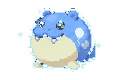
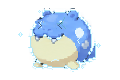
fix(spheal): polish shake expressions and stabilize idle and reaction recovery

Changed region(s): [[0.275, 0.25, 0.375, 0.375], [0.45, 0.275, 0.55, 0.375]]

diff --git a/test/spheal-specials.test.js b/test/spheal-specials.test.js
@@ -89,7 +89,7 @@ test('unchanged clap/watergun frame counts, frame timing and finite completion',
   }
 });
 
-async function rendererHarness() {
+async function rendererHarness({ movement = false } = {}) {
   let now = 0;
   const listeners = {};
   const pet = element();
@@ -104,7 +104,8 @@ async function rendererHarness() {
     document: { body: { dataset: {} }, getElementById: name => nodes[name] },
     window: {
       PetEngine: { STATES, chooseNextState: () => STATES.WALK,
-        chooseTarget: () => ({}), stepToward: () => { throw new Error('movement while locked'); } },
+        chooseTarget: () => ({}), stepToward: movement ? require('../src/pet-engine').stepToward
+          : () => { throw new Error('movement while locked'); } },
       addEventListener: (name, handler) => { listeners[name] = handler; },
       petAPI: { getWindow: async () => ({ x: 40, y: 50 }), setIgnoreMouse() {},
         setPosition: () => calls.push('move'), dragStart: () => calls.push('drag-start'),
@@ -170,4 +171,83 @@ test('expired click authorization does not launch icebeam', async () => {
   h.time(5001);
   h.type('icebeam');
   assert.equal(h.run('character.special.type'), 'clap');
+});
+
+test('completed click specials return directly to idle without a second generic reaction bounce', async () => {
+  for (const [code, duration] of [['', 1440], ['watergun', 2100], ['icebeam', 2950]]) {
+    const h = await rendererHarness();
+    h.click();
+    if (code) h.type(code);
+    h.time(duration);
+    h.run(`tick(${duration})`);
+    assert.equal(h.run('character.special'), null);
+    assert.equal(h.run('character.state'), STATES.IDLE);
+    assert.equal(h.nodes.spheal.className, 'spheal idle');
+    assert.ok(h.nodes.spheal.sprite.src.endsWith('spheal-base.png'));
+  }
+});
+
+test('ROLL startup, loop, ending and special-to-walk transition keep the original frame sequence', t => {
+  let now = 100;
+  t.mock.method(performance, 'now', () => now);
+  const node = element();
+  const character = new SphealCharacter(node, STATES);
+  character.setState(STATES.WALK);
+  for (const [elapsed, frame] of [[0, 1], [105, 2], [210, 3], [660, 8], [750, 3]]) {
+    now = 100 + elapsed;
+    character.render();
+    assert.ok(node.sprite.src.endsWith(`roll-${String(frame).padStart(2, '0')}.png`));
+  }
+  character.setState(STATES.IDLE);
+  const stopped = now;
+  for (let i = 0; i < 4; i++) {
+    now = stopped + i * 105;
+    character.render();
+    assert.ok(node.sprite.src.endsWith(`roll-${String(i + 9).padStart(2, '0')}.png`));
+  }
+  now = stopped + 420;
+  character.render();
+  assert.equal(node.sprite.src, character.baseSrc);
+  character.setState(STATES.WALK);
+  character.startSpecialAction('icebeam');
+  now += 2950;
+  character.render();
+  assert.equal(node.className, 'spheal walk');
+  assert.ok(node.sprite.src.endsWith('roll-01.png'));
+});
+
+test('renderer initializes, moves and turns, survives invalid/corrected input and resumes after a special', async () => {
+  const h = await rendererHarness({ movement: true });
+  assert.equal(h.run('character.state'), STATES.IDLE);
+  assert.ok(h.nodes.spheal.sprite.src.endsWith('spheal-base.png'));
+  h.time(20);
+  h.run('nextDecision = 100000; setState(PET_STATES.WALK); target = {x:position.x+30,y:position.y}; tick(20)');
+  assert.ok(h.calls.includes('move'));
+  assert.equal(h.run('character.facing'), 1);
+  h.time(40);
+  h.run('target = {x:position.x-30,y:position.y}; tick(40)');
+  assert.equal(h.run('character.facing'), -1);
+  h.click();
+  h.type('invalid');
+  assert.equal(h.run('character.special.type'), 'clap');
+  for (const key of 'icebeax') h.listeners.keydown({ key });
+  h.listeners.keydown({ key: 'Backspace' });
+  h.listeners.keydown({ key: 'm' });
+  h.listeners.keydown({ key: 'Enter' });
+  assert.equal(h.run('character.special.type'), 'icebeam');
+  const moves = h.calls.filter(call => call === 'move').length;
+  h.type('icebeam');
+  h.click();
+  h.type('watergun');
+  h.time(1400);
+  h.run('tick(1400)');
+  assert.equal(h.calls.filter(call => call === 'move').length, moves);
+  assert.equal(h.run('character.special.type'), 'icebeam');
+  h.time(2990);
+  h.run('tick(2990)');
+  assert.equal(h.run('character.special'), null);
+  h.time(3010);
+  h.run('setState(PET_STATES.WALK); nextDecision=100000; target={x:position.x-30,y:position.y}; tick(3010)');
+  assert.ok(h.calls.filter(call => call === 'move').length > moves);
+  assert.equal(h.run('character.facing'), -1);
 });

diff --git a/src/index.html b/src/index.html
@@ -25,7 +25,7 @@ body[data-character="neukgu"] .growlithe,body[data-character="royce"] .growlithe
 @keyframes g-exact-sleep{from{transform:translateY(1px)}to{transform:translateY(3px)}}
 @keyframes g-react-pop{from{transform:translateY(0)}to{transform:translateY(-2px)}}
 @keyframes g-exact-drag{from{transform:translateY(0)}to{transform:translateY(-1px)}}
-body[data-character="neukgu"] .spheal,body[data-character="growlithe"] .spheal,body[data-character="royce"] .spheal{display:none}.spheal{position:absolute;inset:0;transform-origin:50% 82%;display:block}.spheal-sprite{position:absolute;left:20px;top:6px;width:80px;height:80px;display:block;image-rendering:pixelated;image-rendering:crisp-edges;object-fit:contain;user-select:none;-webkit-user-drag:none;z-index:1}.spheal.special-clap .spheal-sprite{animation:spheal-clap-bounce 1.44s ease-in-out 1}.spheal.special-icebeam .spheal-sprite{left:0;width:120px;height:80px;animation:none;transform:none}.spheal.special-watergun .spheal-sprite{left:0;width:120px;height:80px;animation:spheal-water-recoil 2.1s ease-in-out 1}.spheal.walk .spheal-sprite{transform:translateY(-1px)}@keyframes spheal-clap-bounce{0%{transform:translateY(0)}45%{transform:translateY(-3px)}100%{transform:translateY(0)}}@keyframes spheal-water-recoil{0%,67%{transform:translate(0,0) rotate(0deg)}72%{transform:translate(-1px,1px) rotate(-1deg)}77%{transform:translate(2px,0) rotate(1.5deg)}82%{transform:translate(-2px,1px) rotate(-1.5deg)}87%{transform:translate(1px,0) rotate(.8deg)}93%,100%{transform:translate(0,0) rotate(0deg)}}
+body[data-character="neukgu"] .spheal,body[data-character="growlithe"] .spheal,body[data-character="royce"] .spheal{display:none}.spheal{position:absolute;inset:0;transform-origin:50% 82%;display:block}.spheal-sprite{position:absolute;left:20px;top:6px;width:80px;height:80px;display:block;image-rendering:pixelated;image-rendering:crisp-edges;object-fit:contain;user-select:none;-webkit-user-drag:none;z-index:1}.spheal.idle{animation:none}.spheal.idle .spheal-sprite{animation:breathe .9s infinite alternate ease-in-out}.spheal.special-clap .spheal-sprite{animation:spheal-clap-bounce 1.44s ease-in-out 1}.spheal.special-icebeam .spheal-sprite{left:0;width:120px;height:80px;animation:none;transform:none}.spheal.special-watergun .spheal-sprite{left:0;width:120px;height:80px;animation:spheal-water-recoil 2.1s ease-in-out 1}.spheal.walk .spheal-sprite{transform:translateY(-1px)}@keyframes spheal-clap-bounce{0%{transform:translateY(0)}45%{transform:translateY(-3px)}100%{transform:translateY(0)}}@keyframes spheal-water-recoil{0%,67%{transform:translate(0,0) rotate(0deg)}72%{transform:translate(-1px,1px) rotate(-1deg)}77%{transform:translate(2px,0) rotate(1.5deg)}82%{transform:translate(-2px,1px) rotate(-1.5deg)}87%{transform:translate(1px,0) rotate(.8deg)}93%,100%{transform:translate(0,0) rotate(0deg)}}
 #bubble{position:absolute;left:50%;top:12px;transform:translate(-50%,-100%);background:#fff;color:#333;padding:5px 9px;border-radius:9px;font:700 12px system-ui;white-space:nowrap;box-shadow:0 4px 12px rgba(0,0,0,.16);display:none}
 </style></head><body><div id="pet"><div id="bubble"></div><div class="shadow"></div>
 

diff --git a/src/characters/spheal.js b/src/characters/spheal.js
@@ -109,6 +109,9 @@ class SphealCharacter {
 
   finishSpecialAction() {
     this.special = null;
+    // A completed click reaction must not restart the generic .react bounce
+    // while the renderer's reaction-completion timer catches up.
+    if (this.state === this.states.REACT) this.state = this.states.IDLE;
     if (this.state === this.states.WALK) {
       this.rollStartedAt = performance.now();
       this.movementSpeed = 0.06;

diff --git a/scripts/generate-spheal-specials.py b/scripts/generate-spheal-specials.py
@@ -16,8 +16,8 @@ EVIDENCE = ROOT / 'docs/spheal-specials'
 NEAREST = Image.Resampling.NEAREST
 
 
-def original(relative):
-    data = subprocess.check_output(['git', 'show', f'{BASELINE}:{ASSETS / relative}'], cwd=ROOT)
+def original(relative, commit=BASELINE):
+    data = subprocess.check_output(['git', 'show', f'{commit}:{ASSETS / relative}'], cwd=ROOT)
     return Image.open(io.BytesIO(data)).convert('RGBA')
 
 
@@ -78,8 +78,50 @@ def open_mouth():
     return im
 
 
+def draw_squint(d, dx=0, color='#253b63'):
+    d.line([(36 + dx, 22), (39 + dx, 25), (36 + dx, 28)], fill=color)
+    d.line([(59 + dx, 22), (56 + dx, 25), (59 + dx, 28)], fill=color)
+
+
+def squint_face():
+    """Restore original cheek shading, replacing only original eye pixels.
+
+    Shared face for water shake and ice shatter. Sample existing blue pixels
+    around each eye; no flat rectangular patches or extra chevrons on the snout.
+    """
+    base = Image.new('RGBA', (120, 80))
+    base.paste(original('spheal-base.png'), (20, 0))
+    clean = base.copy()
+    eye_boxes = [(33, 20, 43, 29), (51, 20, 64, 31)]
+
+    def skin(pixel):
+        r, g, b, a = pixel
+        return a > 240 and b > r + 30 and b > g + 25 and b > 190 and g > 130
+
+    for x0, y0, x1, y1 in eye_boxes:
+        candidates = [(x, y) for y in range(y0 - 3, y1 + 4)
+                      for x in range(x0 - 3, x1 + 4)
+                      if not (x0 <= x < x1 and y0 <= y < y1) and skin(base.getpixel((x, y)))]
+        for y in range(y0, y1):
+            for x in range(x0, x1):
+                if not skin(base.getpixel((x, y))):
+                    sample = min(candidates, key=lambda p: (p[0] - x) ** 2 + 2 * (p[1] - y) ** 2)
+                    clean.putpixel((x, y), base.getpixel(sample))
+    d = ImageDraw.Draw(clean)
+    draw_squint(d)
+    # Never alter source alpha, mouth, nose, or cheeks outside this face patch.
+    clean.putalpha(base.getchannel('A'))
+    return clean
+
+
 def water(index):
     old = original(f'animations/watergun/watergun-{index:02}.png')
+    if 9 <= index <= 11:
+        # Remove misplaced old chevrons/flat eye blocks using original face art.
+        alpha = old.getchannel('A')
+        old.paste(squint_face().crop((32, 19, 78, 34)), (32, 19))
+        old.putalpha(alpha)
+        return old
     if index not in range(4, 9):
         return old
     im = open_mouth()
@@ -129,6 +171,8 @@ def ice_beam(index):
         base.paste(original('spheal-base.png'), (20, 0))
         if index == 14:  # exact original colors, mouth and dimensions restored.
             return base
+        if 10 <= index <= 13:
+            base = squint_face()
         offset = {9: 0, 10: -1, 11: 2, 12: -2, 13: 1}[index]
         shifted = Image.new('RGBA', base.size)
         shifted.paste(base, (offset, 0))
@@ -168,6 +212,13 @@ def ice_beam(index):
                 crystal(d, x, y, size)
         if index == 9:
             im.putalpha(base.getchannel('A'))
+        else:
+            # Keep the expression readable where a reflection crosses the eyes.
+            alpha = im.getchannel('A')
+            ink = tuple(round(c * (1 - strength) + t * strength)
+                        for c, t in zip((37, 59, 99), (158, 226, 255)))
+            draw_squint(ImageDraw.Draw(im), offset, ink)
+            im.putalpha(alpha)
     return im
 
 
@@ -203,6 +254,15 @@ def main():
     before = [original('animations/clap/clap-04.png'), original('animations/watergun/watergun-06.png')]
     after = [clap(4), water(6)]
     sheet([before[0], after[0], before[1], after[1]], 'before / after').save(EVIDENCE / 'comparison.png')
+    polish_baseline = 'a4f66fef0fb70576bdeef8ea303d3593e438ce1d'
+    eyes = sheet([original('animations/watergun/watergun-09.png', polish_baseline), water(9),
+                  original('animations/icebeam/icebeam-10.png', polish_baseline), ice_beam(10)], 'eyes')
+    d = ImageDraw.Draw(eyes)
+    for row in [0, 190]:
+        for column, label in enumerate(['WATER 09 before', 'WATER 09 after', 'ICE 10 before', 'ICE 10 after']):
+            d.rectangle((column * 250, row, column * 250 + 249, row + 21), fill='#777f8b')
+            d.text((column * 250 + 5, row + 4), label, fill='white')
+    eyes.save(EVIDENCE / 'eyes-comparison.png')
 
 
 if __name__ == '__main__':

diff --git a/test/spheal-assets.py b/test/spheal-assets.py
@@ -9,14 +9,15 @@ from PIL import Image
 ROOT = Path(__file__).resolve().parents[1]
 ASSETS = ROOT / 'src/assets/characters/spheal'
 BASELINE = '8960f70fb409684bb69ad07a5e035282a963af52'
+POLISH_BASELINE = 'a4f66fef0fb70576bdeef8ea303d3593e438ce1d'
 
 
 def frame(kind, index):
     return Image.open(ASSETS / f'animations/{kind}/{kind}-{index:02}.png').convert('RGBA')
 
 
-def original(relative):
-    data = subprocess.check_output(['git', 'show', f'{BASELINE}:src/assets/characters/spheal/{relative}'], cwd=ROOT)
+def original(relative, commit=BASELINE):
+    data = subprocess.check_output(['git', 'show', f'{commit}:src/assets/characters/spheal/{relative}'], cwd=ROOT)
     return Image.open(io.BytesIO(data)).convert('RGBA')
 
 
@@ -48,9 +49,36 @@ class SphealAssets(unittest.TestCase):
             self.assertEqual(frame('clap', i).getpixel((40, 50)), frame('clap', i).getpixel((41, 50)))
         self.assertEqual(frame('clap', 4).tobytes(), frame('clap', 5).tobytes())
 
-    def test_water_shake_and_preparation_are_unchanged(self):
-        for i in [1, 2, 3, 9, 10, 11, 12]:
+    def test_water_preparation_and_recovery_are_unchanged(self):
+        for i in [1, 2, 3, 12]:
             self.assertEqual(frame('watergun', i).tobytes(), original(f'animations/watergun/watergun-{i:02}.png').tobytes())
+
+    def test_polish_only_changes_face_pixels_and_preserves_alpha_effects_and_mouth(self):
+        for kind, indices in [('watergun', range(9, 12)), ('icebeam', range(10, 14))]:
+            for i in indices:
+                before = original(f'animations/{kind}/{kind}-{i:02}.png', POLISH_BASELINE)
+                after = frame(kind, i)
+                self.assertEqual(before.getchannel('A').tobytes(), after.getchannel('A').tobytes())
+                changes = []
+                for y in range(80):
+                    for x in range(120):
+                        if before.getpixel((x, y)) != after.getpixel((x, y)):
+                            changes.append((x, y))
+                            self.assertTrue(30 <= x < 80 and 19 <= y < 34, (kind, i, x, y))
+                self.assertTrue(changes)
+                self.assertEqual(before.crop((0, 34, 120, 80)).tobytes(), after.crop((0, 34, 120, 80)).tobytes())
+        for i in list(range(1, 10)) + [14]:
+            self.assertEqual(frame('icebeam', i).tobytes(), original(f'animations/icebeam/icebeam-{i:02}.png', POLISH_BASELINE).tobytes())
+
+    def test_shake_and_shatter_have_exactly_two_inward_closed_eyes(self):
+        left = {(36 + j, 22 + j) for j in range(4)} | {(39 - j, 25 + j) for j in range(4)}
+        right = {(59 - j, 22 + j) for j in range(4)} | {(56 + j, 25 + j) for j in range(4)}
+        for kind, offsets in [('watergun', {9: 0, 10: 0, 11: 0}), ('icebeam', {10: -1, 11: 2, 12: -2, 13: 1})]:
+            for i, dx in offsets.items():
+                im = frame(kind, i)
+                actual = {(x, y) for y in range(21, 31) for x in range(33 + dx, 64 + dx)
+                          if (lambda c: c[0] < 85 and c[1] < 130 and c[2] < 170 and c[3] > 240)(im.getpixel((x, y)))}
+                self.assertEqual(actual, {(x + dx, y) for x, y in left | right}, (kind, i))
 
     def test_shared_mouth_nose_and_single_connected_attack_columns(self):
         mouth = frame('watergun', 4).crop((45, 34, 55, 55)).tobytes()

diff --git a/DEVLOG.md b/DEVLOG.md
@@ -392,3 +392,12 @@
 - Changes are limited to Spheal art/module/styles, its command branch and startup hint, focused tests/tools and review evidence. Corrected the Spheal-only CSS visibility selector that previously displayed Spheal on other character selections. Pet Engine/Main/IPC/base/ROLL/other character modules/dependencies are unchanged.
 - PASS: JavaScript syntax, 58 Node regressions, six PNG/alpha/connected-beam/APNG checks and Linux Electron headless integration. Details and reproducible commands are in `SPHEAL-IMPLEMENTATION-HANDOFF.md`; visual sheets/playbacks are in `docs/spheal-specials/`.
 - **NOT VERIFIED:** Windows Electron, packaged EXE, real desktop interactions/DPI, and user visual acceptance. Rollback by reverting this branch's commits in reverse order or using the preserved baseline; do not rewrite main or Patch 23 history.
+
+## Spheal integration polish (2026-10-23)
+
+- Baseline: development branch `feat/spheal-clap-watergun-icebeam` at `a4f66fef0fb70576bdeef8ea303d3593e438ce1d`; no new feature, version bump or main merge.
+- WATER GUN 09–11: restored original cheek shading to remove flat eye blocks/misplaced duplicate chevrons, then applied two correctly positioned inward `><` eyes. ICE BEAM 10–13 uses the same expression, tinted with the existing coating and kept legible over reflections. Frozen 09 and recovery 14 remain byte-identical; mouth, droplets, fragments, alpha and timings are preserved.
+- Fixed the generic `.react` bounce briefly restarting after click-triggered one-shots: Spheal completes directly to idle. Fixed a reproduced idle/facing conflict (`matrix(-0.761045,0,0,1,...)` instead of scaleX(-1)): Spheal-only breathing now moves the sprite, leaving parent facing/full body width intact. No shared keyframes/renderer/Engine/Main/IPC changes.
+- PASS: `npm run check`; Node 61/61 (initialization, real pure-engine movement/direction, click/drag/quit IPC routing, ROLL transitions, invalid/backspace/expired/repeated commands, one-shot completion and duplicates); PNG tests 8/8 (face-only changes, exact two eyes, alpha/effects, frozen/recovery preservation and APNG timing).
+- PASS: Linux Electron headless pointer-click → keyboard input, both-facing idle width, continuous 8/12/14-frame playback, freeze/cleanup, 180×150 emulated bounds and per-character visibility. Review images: `docs/spheal-specials/eyes-comparison.png`, updated Water Gun/Ice Beam sheets and APNGs. CLAP/base/ROLL/firing resources are unchanged.
+- **NOT VERIFIED:** actual Windows Electron/EXE, native drag/click-through/quit dialog, DPI/multi-monitor geometry and user visual acceptance. Automated/Linux checks do not approve visual quality. Rollback: revert this polish commit; retained baseline `a4f66fe`, original main `8960f70`, and Patch 23 `dc669d8` remain available.
